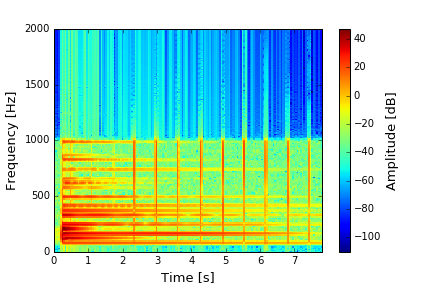
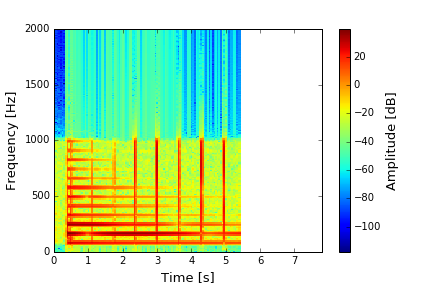
T

diff --git a/Forsøg/AFLEVERINGS MAPPE/Final_Script.py b/Forsøg/AFLEVERINGS MAPPE/Final_Script.py
@@ -21,8 +21,8 @@ import scipy.io.wavfile as siw
 #==============================================================================
 """ Data import """
 # Enkelt tone
-#freq , data  = siw.read('Lydfiler/enkelt_tone/forsoeg_enkelt_dyb.wav')   # Data signal
-#freq2, noise = siw.read('Lydfiler/stoej/klap_takt_2.wav')                # Noise signal
+freq , data  = siw.read('Lydfiler/enkelt_tone/forsoeg_enkelt_dyb.wav')   # Data signal
+freq2, noise = siw.read('Lydfiler/stoej/klap_takt_2.wav')                # Noise signal
 
 
 # TEST 1 
@@ -174,7 +174,7 @@ print('Data filtreret 6/9')
 
 """ Signal with noise in time domain """
 #plt.plot(tid,signal)  # Original data with noise added 
-#plt.xlabel('Time [sec.]')
+#plt.xlabel('Time [s]')
 #plt.ylabel('Amplitude')
 #plt.axis([0,6,-1,1])
 #plt.savefig("figures/integrationstest/signal.png")
@@ -182,7 +182,7 @@ print('Data filtreret 6/9')
 
 """ Filtered signal in time domain """
 #plt.plot(tid,signal_filt)  # Original data with noise added 
-#plt.xlabel('Time [sec.]')
+#plt.xlabel('Time [s]')
 #plt.ylabel('Amplitude')
 #plt.axis([0,6,-1,1])
 #plt.savefig("figures/integrationstest/f_signal.png")
@@ -218,28 +218,28 @@ print('plot plotteret 7/9')
 # Computing Spectrogram
 #==============================================================================
 
-X,o,ws = stft(signal_filt)      # return STFT, stft and used window(time) 
+#X,o,ws = stft(signal_filt)      # return STFT, stft and used window(time) 
+#
+#WS = np.abs(np.fft.fft(ws))                                 # window(frekvenscy) used in STFT  
+##X,v_w,v_t,t = stft_h(signal_filt,overlap = 2)
+#
+#print('stft udregnet 9/9') 
 
-WS = np.abs(np.fft.fft(ws))                                 # window(frekvenscy) used in STFT  
-#X,v_w,v_t,t = stft_h(signal_filt,overlap = 2)
+#X = db(np.abs(X).T)                                         # Calculated to dB
+#
+#x = np.linspace(0,tid[-1],np.shape(X)[1])       
+#y = np.linspace(0,freq_axis[-1],np.shape(X)[0]) 
 
-print('stft udregnet 9/9') 
-
-X = db(np.abs(X).T)                                         # Calculated to dB
-
-x = np.linspace(0,tid[-1],np.shape(X)[1])       
-y = np.linspace(0,freq_axis[-1],np.shape(X)[0]) 
-
-spec = plt.pcolormesh(x,y[freq_inter1:freq_inter2],X[freq_inter1:freq_inter2],cmap='jet')
-cb   = plt.colorbar(spec)
-cb.set_label(label = 'Amplitude [dB]', fontsize=fontsize)
-plt.xlabel('Time [s]', fontsize = fontsize)
-plt.ylabel('Frequency [Hz]', fontsize = fontsize)
-plt.axis([0,7.8,0,2000])
-#plt.savefig("figures/skala.png")
-#plt.savefig("figures/integrationstest/spectrogram.png")
-plt.savefig("figures/systemtest/final_spec3.png")
-plt.show()
+#spec = plt.pcolormesh(x,y[freq_inter1:freq_inter2],X[freq_inter1:freq_inter2],cmap='jet')
+#cb   = plt.colorbar(spec)
+#cb.set_label(label = 'Amplitude [dB]', fontsize=fontsize)
+#plt.xlabel('Time [s]', fontsize = fontsize)
+#plt.ylabel('Frequency [Hz]', fontsize = fontsize)
+#plt.axis([0,7.8,0,2000])
+##plt.savefig("figures/skala.png")
+##plt.savefig("figures/integrationstest/spectrogram.png")
+#plt.savefig("figures/systemtest/final_spec3.png")
+#plt.show()
 
 #==============================================================================
 # Peak Dectection
@@ -248,12 +248,12 @@ plt.show()
 max_freq_t = peak_dec(X,15,y)
 
 """ plot peak dection """
-plt.plot(x,max_freq_t,'o')
-plt.xlabel('Time [s]')
-plt.ylabel('Frequency [Hz]')
-#plt.savefig("figures/integrationstest/peak_dec.png")
-plt.savefig("figures/systemtest/final_peak3.png")
-    
+#plt.plot(x,max_freq_t,'o')
+#plt.xlabel('Time [s]')
+#plt.ylabel('Frequency [Hz]')
+##plt.savefig("figures/integrationstest/peak_dec.png")
+#plt.savefig("figures/systemtest/final_peak3.png")
+#    
 #==============================================================================
 # SNR
 #==============================================================================

diff --git a/Rapport/sections/mainmatter/chapter_10/systemtest.tex b/Rapport/sections/mainmatter/chapter_10/systemtest.tex
@@ -1,5 +1,5 @@
 In this section the final system is tested with varying input signal in order to evaluate at what level the application fulfils the practical purpose of the system. According to chapter \ref{ch3} the purpose of the system is to create a spectrogram from which the significant frequencies over time are to be recognized by the peak detection algorithm to match the frequencies known to be in the input signal according to the tone or chord played. \\
-In each test the same noise is added to the signal with a maximum SNR at ---- \trine{insæt max SNR}. The noise consists of hands clapping in the background to simulate a realistic situation. Note that all other natural noises are hence minimized. Variation of the noise will not be considered in this system validation but will be further investigated in chapter \ref{ch11}.
+In each test the same noise is added to the signal. The noise consists of hands clapping in the background to simulate a realistic situation. Note that all other natural noises are hence minimized. Variation of the noise will not be considered in this system validation but will be further investigated in chapter \ref{ch11}.
 
 \paragraph{Test 1} Scale with clapping hands.
 \begin{figure}[H]
